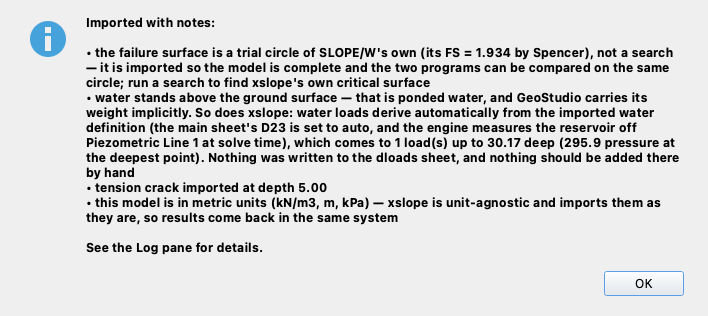
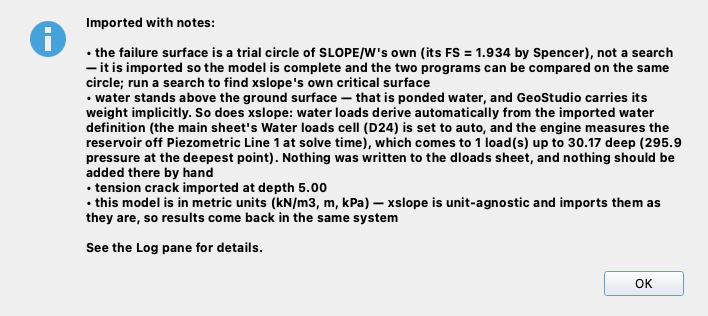
tutorials: the Run LEM shots and the W-2 import note retaken from the fixed Studio; the FEM-2 producer's comments stop quoting old answers
lem05_studio_run_lem.png and lem09_studio_run_lem.png open on the
non-circular search's own FS tol 0.001 and 100 iterations (83d314a0);
w02_gsz_notes.png names the main sheet's Water loads cell (D24). The FEM-2
producer's comments describe what the code does instead of quoting 1.5195,
762.8 and 2,101 elements, or the same answer at a 3,000 budget.

Claude-Session: https://claude.ai/code/session_01XjjT2aBxw8gY7EFdpoUcpj

Changed region(s): [[0.1243, 0.3703, 0.9633, 0.5696]]

diff --git a/tools/make_tutorial_figures.py b/tools/make_tutorial_figures.py
@@ -4631,23 +4631,22 @@ FEM02_SLICES = 40
 FEM02_CRITERION = "non_convergence"
 FEM02_F_MIN, FEM02_F_MAX = 1.0, 2.0
 FEM02_TOLERANCE = 0.01
-#: 12,000, which is also ``solve_ssrm``'s default budget.  On this model the
-#: number no longer decides the answer: a trial that spends its budget while still
-#: making progress is extended rather than failed, so both runs return the same
-#: factors of safety (1.5664 elastic-perfectly-plastic, 1.5352 peak-residual) from
-#: a 3,000 budget and from 12,000, with the same brackets and the same converged
-#: field.  What the budget still decides is how far the captured failure state has
-#: developed, which is why the producers ask for the larger one.
+#: The iteration budget per trial passed to ``solve_ssrm`` for every FEM-2 run
+#: here: 12,000, which is also its default, and the value the page shows in
+#: **Max iterations per trial**.  A trial that spends its budget while the
+#: residual is still falling is extended rather than failed, so the number sets
+#: where that extension starts; it also bounds how far the captured failure state
+#: develops.
 FEM02_MAX_ITERATIONS = 12000
-#: The line the bar-force profiles are drawn for: the most heavily loaded of the
-#: six in both runs (peak 800 lb/ft elastic-perfectly-plastic, 762.8 lb/ft
-#: peak-residual, both at the last converged trial).
+#: The reinforcement line the bar-force profiles are drawn for, in both runs
+#: (elastic-perfectly-plastic and peak-residual), from the last converged trial.
+#: The producer prints that line's largest force and its hardest-worked point, so
+#: the choice can be checked against each run.
 FEM02_PROFILE_LINE = 5
 #: The residual capacities the sweep asks for, highest first.  ``None`` is the
-#: blank cell — no post-peak drop at all.  The sweep runs down to zero because
-#: that is where the answer moves: Tres = Tmax is the same run as a blank cell,
-#: 600 and 400 each give a lower factor of safety of their own (1.5352 and
-#: 1.5195), and Tres = 0 — the bar tearing and carrying nothing — gives another.
+#: blank cell — no post-peak drop at all.  Tres = Tmax (800) is the same run as a
+#: blank cell; the sweep then steps down through 600 and 400 to 0, the bar tearing
+#: and carrying nothing, solving one strength reduction at each value.
 FEM02_TRES_SWEEP = (None, 800.0, 600.0, 400.0, 0.0)
 
 
@@ -4659,12 +4658,12 @@ def _fem02_mesh(model):
 
     The dialog's own default for that box is ticked, and on this section it is not
     inert: the shell is a 1.19 ft facing band, thinner than one element at the
-    target size, so the refinement drives the local size there to 0.33 ft and the
-    mesh from 2,101 elements to 5,096.  That mesh is a different model's worth of
-    answer (peak-residual 1.4570 against 1.5352, elastic-perfectly-plastic 1.5195
-    against 1.5664; 1.4414 is what a 1 ft element size gives), so the page has to
-    tell the reader which box to clear, and
-    this producer draws the mesh the page's own numbers come from.
+    target size, so the refinement would drive the local element size down there
+    and build a much finer mesh, which gives different factors of safety. The page
+    tells the reader to clear the box, and this producer builds the mesh without
+    that refinement: it passes only the size regions the file declares, so no
+    thin-zone sizes (Studio adds those from ``mesh.thin_zone_plan``) reach the
+    mesher. That is the mesh the page's own numbers come from.
     """
     from xslope.mesh import (build_mesh_from_polygons,
                              extract_constraint_line_geometry,
